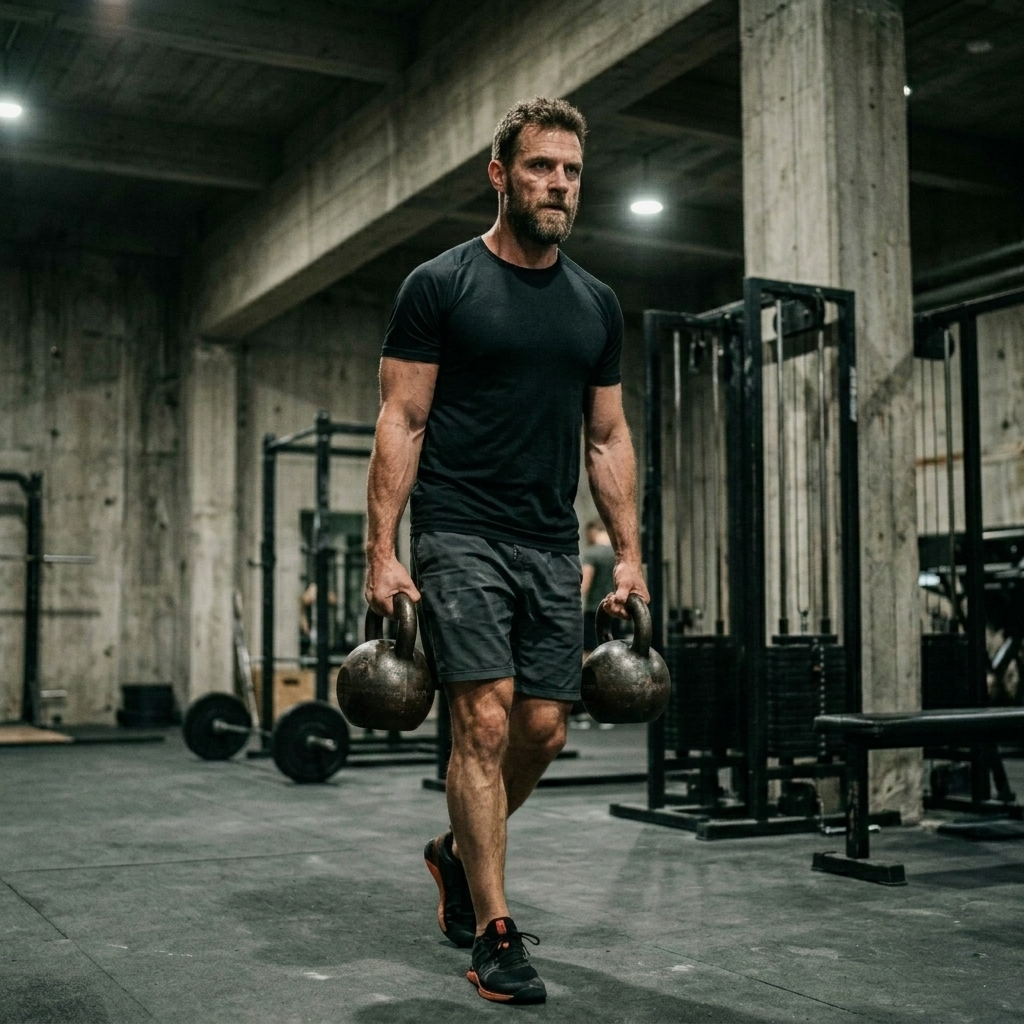
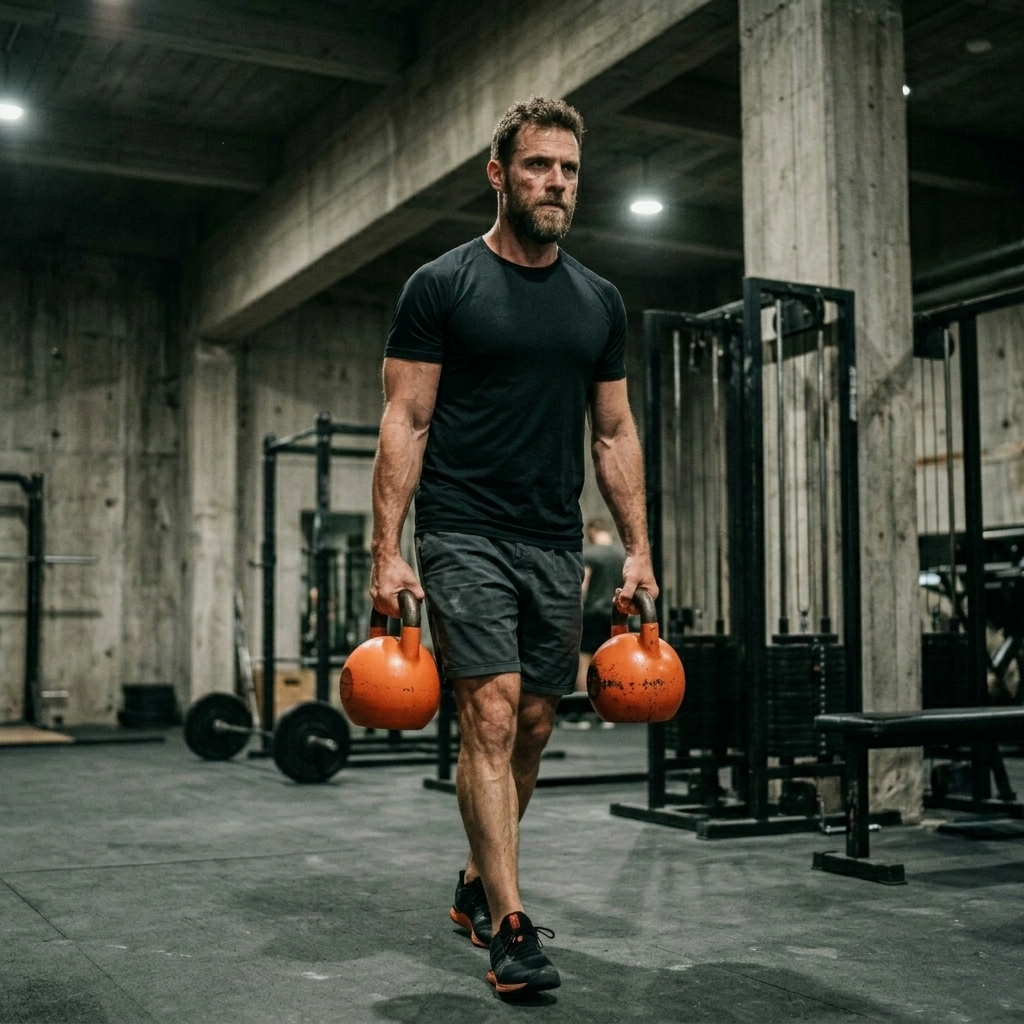
fix(assets): regenerate farmers carry frames for color and size consistency

diff --git a/index.html b/index.html
@@ -8,7 +8,7 @@
     <meta name="apple-mobile-web-app-status-bar-style" content="black-translucent">
     <title>OneBell - Real Strength</title>
     <link rel="manifest" href="manifest.json">
-    <link rel="stylesheet" href="styles.css?v=28">
+    <link rel="stylesheet" href="styles.css?v=29">
     <link rel="preconnect" href="https://fonts.googleapis.com">
     <link rel="preconnect" href="https://fonts.gstatic.com" crossorigin>
     <link href="https://fonts.googleapis.com/css2?family=Inter:wght@300;400;500;600;700;800&display=swap" rel="stylesheet">
@@ -53,6 +53,6 @@
             });
         }
     </script>
-    <script src="app.js?v=28" type="module"></script>
+    <script src="app.js?v=29" type="module"></script>
 </body>
 </html>
